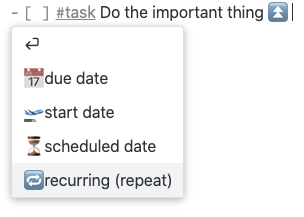
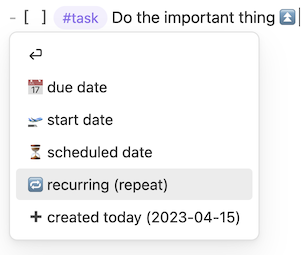
feat: Add Created date to Auto-Suggest menu (#1872)
* feat: add created date in suggestions

* Update documentation

* Limit date suggetsions to half of maximum

* Update created date in getting started docs

* docs: Update screenshots in Auto-suggest walk through

* Make auto-suggest image alt text consistent

* Move created date suggestion to bottom of list

* Revert maximum date suggestions back to its original value

* Update suggestion screenshots

---------

diff --git a/tests/Suggestor/Suggestor.test.ts b/tests/Suggestor/Suggestor.test.ts
@@ -2,6 +2,7 @@
  * @jest-environment jsdom
  */
 import moment from 'moment';
+import * as chrono from 'chrono-node';
 import { getSettings } from '../../src/Config/Settings';
 import type { SuggestInfo } from '../../src/Suggestor';
 import { makeDefaultSuggestionBuilder } from '../../src/Suggestor/Suggestor';
@@ -9,9 +10,23 @@ import { DEFAULT_SYMBOLS } from '../../src/TaskSerializer/DefaultTaskSerializer'
 
 window.moment = moment;
 
+// Set predictable date for all tests in this file
+const mockDate = new Date(moment('2022-07-11 15:00').valueOf());
+
+jest.spyOn(chrono, 'parseDate').mockImplementation(
+    (text, _, options) => chrono.en.casual.parseDate(text, mockDate, options)!,
+);
+
 describe.each([{ name: 'emoji', symbols: DEFAULT_SYMBOLS }])("auto-complete with '$name' symbols", ({ symbols }) => {
     const buildSuggestions = makeDefaultSuggestionBuilder(symbols);
-    const { dueDateSymbol, scheduledDateSymbol, startDateSymbol, recurrenceSymbol, prioritySymbols } = symbols;
+    const {
+        dueDateSymbol,
+        scheduledDateSymbol,
+        startDateSymbol,
+        createdDateSymbol,
+        recurrenceSymbol,
+        prioritySymbols,
+    } = symbols;
     it('offers basic completion options for an empty task', () => {
         // Arrange
         const originalSettings = getSettings();
@@ -79,20 +94,12 @@ describe.each([{ name: 'emoji', symbols: DEFAULT_SYMBOLS }])("auto-complete with
         expect(suggestions[1].displayText).toEqual('every day');
     });
 
-    // Test disabled until I can figure out:
-    // 1. how to set the date.
-    // 2. how to set maxGenericSuggestions in Suggestor.ts to higher than 5.
-    // See suggestions in https://github.com/obsidian-tasks-group/obsidian-tasks/issues/861#issuecomment-1180788860
+    // Until the maximum date suggestion number is no longer hardcoded,
+    // it's not possible to output all dates. Skipping for now.
     it.skip('show all suggested text', () => {
         // Arrange
         const originalSettings = getSettings();
         originalSettings.autoSuggestMaxItems = 200;
-
-        // This does not change the date used in the suggestions below.
-        // It was a failed attempt at allowing this test to be independent of date of the run.
-        // const todaySpy = jest
-        //     .spyOn(Date, 'now')
-        //     .mockReturnValue(moment('2022-06-11').valueOf());
 
         const lines = [
             '- [ ] some task',
@@ -134,6 +141,7 @@ describe.each([{ name: 'emoji', symbols: DEFAULT_SYMBOLS }])("auto-complete with
             | ${prioritySymbols.Medium} medium priority | ${prioritySymbols.Medium}  |
             | ${prioritySymbols.Low} low priority | ${prioritySymbols.Low}  |
             | ${recurrenceSymbol} recurring (repeat) | ${recurrenceSymbol}  |
+            | ${createdDateSymbol} created today (2022-07-11) | ${createdDateSymbol} 2022-07-11  |
             | every | ${recurrenceSymbol} every  |
             | every day | ${recurrenceSymbol} every day  |
             | every week | ${recurrenceSymbol} every week  |

diff --git a/src/Suggestor/Suggestor.ts b/src/Suggestor/Suggestor.ts
@@ -117,6 +117,14 @@ function getPossibleComponentSuggestions(
             displayText: `${symbols.recurrenceSymbol} recurring (repeat)`,
             appendText: `${symbols.recurrenceSymbol} `,
         });
+    if (!line.includes(symbols.createdDateSymbol)) {
+        const parsedDate = DateParser.parseDate('today', true);
+        const formattedDate = parsedDate.format(TaskRegularExpressions.dateFormat);
+        suggestions.push({
+            displayText: `${symbols.createdDateSymbol} created today (${formattedDate})`,
+            appendText: `${symbols.createdDateSymbol} ${formattedDate} `,
+        });
+    }
 
     return suggestions;
 }

diff --git a/docs/Getting Started/Auto-Suggest.md b/docs/Getting Started/Auto-Suggest.md
@@ -59,7 +59,7 @@ Here is a more detailed walk through of the creation of a new task, which can be
 
 7. Now our task is complete:
 
-    ![auto-suggest-menu-after-due-emoji](../images/auto-suggest-menu-after-due-emoji.png)
+    ![auto-suggest-menu-after-due-date](../images/auto-suggest-menu-after-due-date.png)
 
 ## Details
 
@@ -97,10 +97,6 @@ There are some things that might be improved in future releases:
   - It does not yet offer `when done`.
     - This phrase still needs to be typed manually.
 - It currently pops up when editing completed tasks. This may be changed in future.
-
-## Limitations
-
-- Auto-suggest does not yet support the [[Dates#Created date|created date]] field. We are tracking this in [issue #1743](https://github.com/obsidian-tasks-group/obsidian-tasks/issues/1743).
 
 ## Common Questions
 
@@ -172,41 +168,42 @@ As you type, the options are filtered. For example, if you haven't yet added any
 
 Similarly, you can type some fraction of the word `start` (of whatever length is needed by the 'Minimum match length' setting) and you will get a suggestion to turn it into the emoji. Pressing `<enter>` then immediately adds the start emoji: 🛫.
 
-| Searchable Text         | Text that is added         |
-| ----------------------- | -------------------------- |
-| ⏎                       | \<new line>                |
-| ⏫ high priority        | ⏫                         |
-| 🔼 medium priority      | 🔼                         |
-| 🔽 low priority         | 🔽                         |
-| 🔁 recurring (repeat)   | 🔁                         |
-| every                   | 🔁 every                   |
-| every day               | 🔁 every day               |
-| every week              | 🔁 every week              |
-| every month             | 🔁 every month             |
-| every month on the      | 🔁 every month on the      |
-| every year              | 🔁 every year              |
-| every week on Sunday    | 🔁 every week on Sunday    |
-| every week on Monday    | 🔁 every week on Monday    |
-| every week on Tuesday   | 🔁 every week on Tuesday   |
-| every week on Wednesday | 🔁 every week on Wednesday |
-| every week on Thursday  | 🔁 every week on Thursday  |
-| every week on Friday    | 🔁 every week on Friday    |
-| every week on Saturday  | 🔁 every week on Saturday  |
-| 📅 due date             | 📅                         |
-| ⏳ scheduled date       | ⏳                         |
-| 🛫 start date           | 🛫                         |
-| today (2022-07-11)      | 2022-07-11                 |
-| tomorrow (2022-07-12)   | 2022-07-12                 |
-| Sunday (2022-07-17)     | 2022-07-17                 |
-| Monday (2022-07-11)     | 2022-07-11                 |
-| Tuesday (2022-07-12)    | 2022-07-12                 |
-| Wednesday (2022-07-13)  | 2022-07-13                 |
-| Thursday (2022-07-14)   | 2022-07-14                 |
-| Friday (2022-07-15)     | 2022-07-15                 |
-| Saturday (2022-07-16)   | 2022-07-16                 |
-| next week (2022-07-18)  | 2022-07-18                 |
-| next month (2022-08-11) | 2022-08-11                 |
-| next year (2023-07-11)  | 2023-07-11                 |
+| Searchable Text               | Text that is added         |
+| ----------------------------- | -------------------------- |
+| ⏎                             | \<new line>                |
+| ⏫ high priority              | ⏫                         |
+| 🔼 medium priority            | 🔼                         |
+| 🔽 low priority               | 🔽                         |
+| 🔁 recurring (repeat)         | 🔁                         |
+| every                         | 🔁 every                   |
+| every day                     | 🔁 every day               |
+| every week                    | 🔁 every week              |
+| every month                   | 🔁 every month             |
+| every month on the            | 🔁 every month on the      |
+| every year                    | 🔁 every year              |
+| every week on Sunday          | 🔁 every week on Sunday    |
+| every week on Monday          | 🔁 every week on Monday    |
+| every week on Tuesday         | 🔁 every week on Tuesday   |
+| every week on Wednesday       | 🔁 every week on Wednesday |
+| every week on Thursday        | 🔁 every week on Thursday  |
+| every week on Friday          | 🔁 every week on Friday    |
+| every week on Saturday        | 🔁 every week on Saturday  |
+| 📅 due date                   | 📅                         |
+| ⏳ scheduled date             | ⏳                         |
+| 🛫 start date                 | 🛫                         |
+| ➕ created today (2022-07-11) | ➕ 2022-07-11              |
+| today (2022-07-11)            | 2022-07-11                 |
+| tomorrow (2022-07-12)         | 2022-07-12                 |
+| Sunday (2022-07-17)           | 2022-07-17                 |
+| Monday (2022-07-11)           | 2022-07-11                 |
+| Tuesday (2022-07-12)          | 2022-07-12                 |
+| Wednesday (2022-07-13)        | 2022-07-13                 |
+| Thursday (2022-07-14)         | 2022-07-14                 |
+| Friday (2022-07-15)           | 2022-07-15                 |
+| Saturday (2022-07-16)         | 2022-07-16                 |
+| next week (2022-07-18)        | 2022-07-18                 |
+| next month (2022-08-11)       | 2022-08-11                 |
+| next year (2023-07-11)        | 2023-07-11                 |
 
 ### How can I use auto-suggest features from other plugins together with the Tasks auto-suggest?
 

diff --git a/docs/Getting Started/Dates.md b/docs/Getting Started/Dates.md
@@ -113,9 +113,6 @@ Created dates use a heavy plus emoji: ➕.
 - [ ] take out the trash ➕ 2021-04-09
 ```
 
-> [!info]
-[[Auto-Suggest]] does not yet support the created date field. We are tracking this in [issue #1743](https://github.com/obsidian-tasks-group/obsidian-tasks/issues/1743).
-
 ### Done date
 
 Unless you disable 'Set done date on every completed task' in settings (and restart Obsidian), the Tasks plugin will help you track when your tasks were completed.
